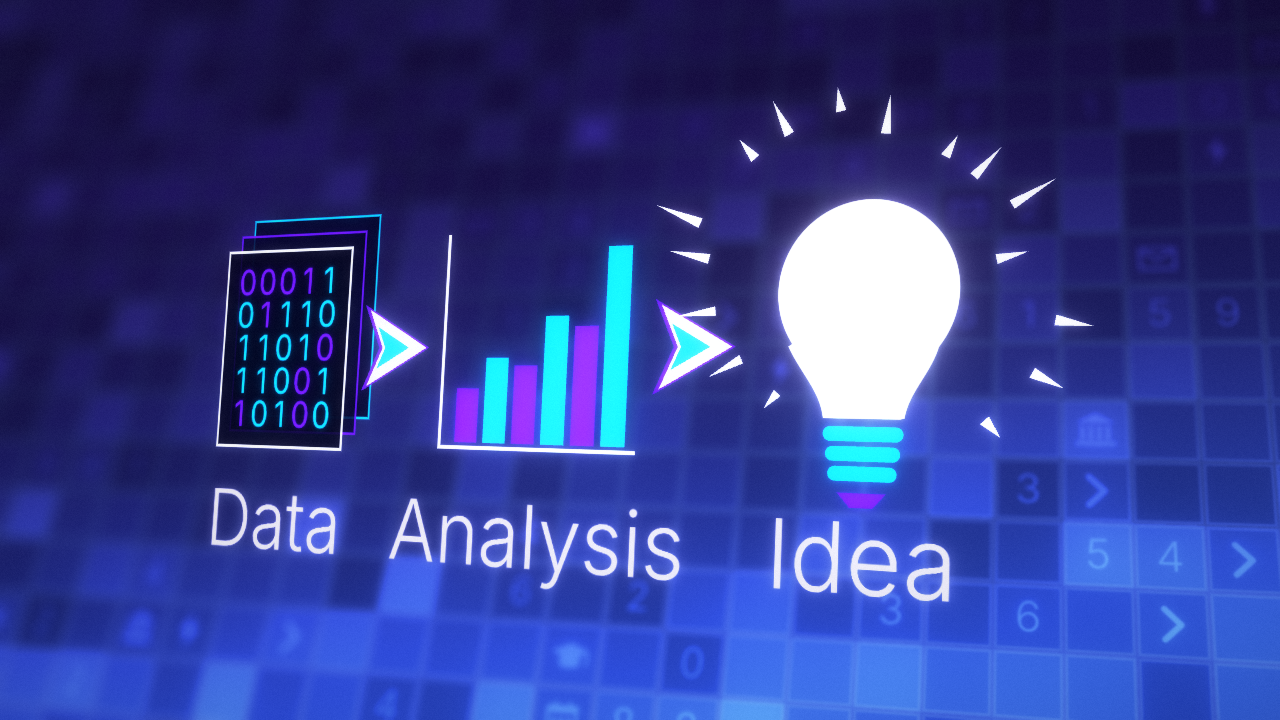
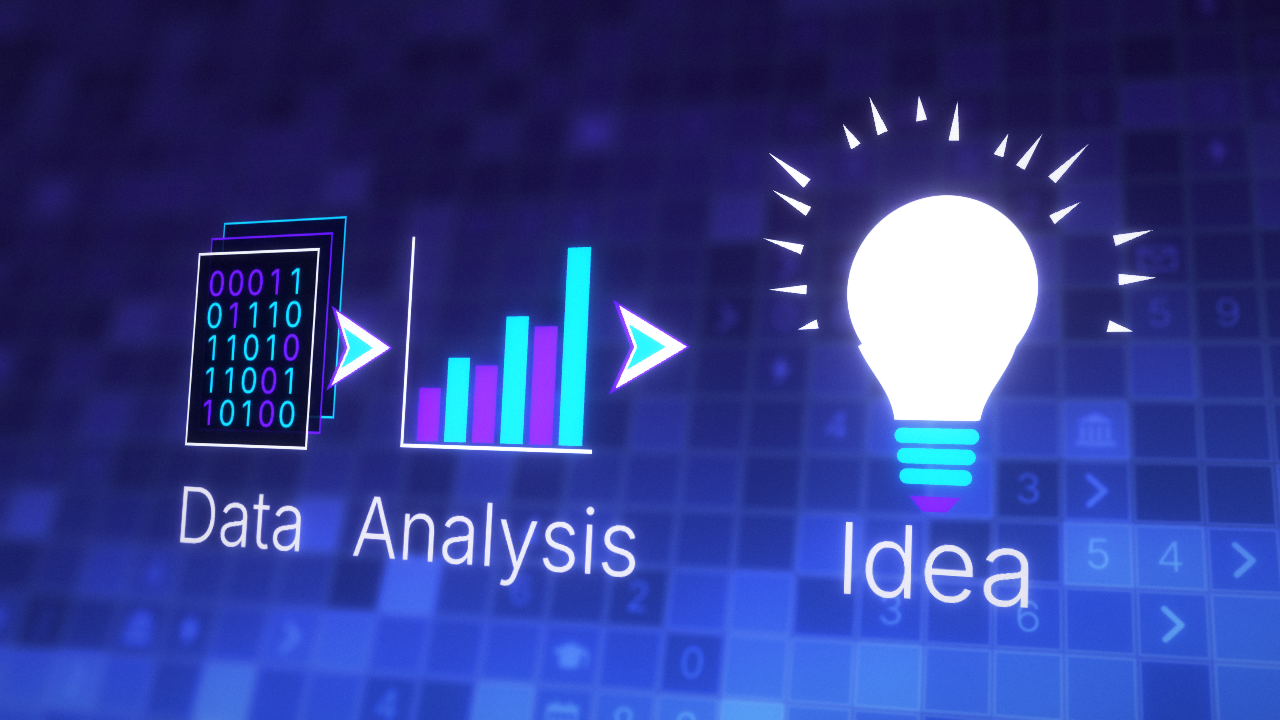
InfoStory 1A: keep the second arrow clear of the bulb and its rays
Bulb moved right (x 2.05 -> 2.9) and its 16 rays limited to the upper
~205 degrees, so neither the rays nor the bulb glow reach the arrow, also
at the burst overshoot. Group re-centred for the final hold.

Claude-Session: https://claude.ai/code/session_01A8MoXAZPzio9oadaHeZFrm

diff --git a/infostories-blackholes/src/info/stories/dataAnalysisIdea.ts b/infostories-blackholes/src/info/stories/dataAnalysisIdea.ts
@@ -16,15 +16,15 @@ const DIGITS = Array.from({ length: 25 }, (_, i) => ({
   delay: i * 0.7 + rng() * 6,
 }));
 
-// 16 uneven wedge rays, upper ~260 degrees, slightly asymmetric
+// 16 uneven wedge rays over the upper ~205 degrees (kept clear of the arrow), slightly asymmetric
 const RAYS = Array.from({ length: 16 }, (_, i) => ({
-  deg: -45 + i * (270 / 15) + (rng() - 0.5) * 9,
+  deg: -12 + i * (204 / 15) + (rng() - 0.5) * 7,
   len: 0.12 + rng() * 0.3,
-  rad: 0.95 + rng() * 0.42,
+  rad: 0.9 + rng() * 0.32,
 }));
 
 const LABEL_Y = -1.45;
-const X_DATA = -2.95, X_A1 = -1.82, X_CHART = -0.55, X_A2 = 0.78, X_BULB = 2.05;
+const X_DATA = -2.95, X_A1 = -1.82, X_CHART = -0.55, X_A2 = 0.78, X_BULB = 2.9;
 
 const order = <T extends Object3D>(o: T, r: number): T => {
   o.renderOrder = r;
@@ -192,7 +192,7 @@ export const dataAnalysisIdea: StoryBuilder = ({ anisotropy }) => {
     // group slides: Data centred -> Data+chart -> all three
     const s1 = easeInOutCubic(ramp(f, 72, 98));
     const s2 = easeInOutCubic(ramp(f, 162, 190));
-    content.position.x = lerp(lerp(2.95, 1.15, s1), -0.25, s2);
+    content.position.x = lerp(lerp(2.95, 1.15, s1), -0.6, s2);
 
     // digits float loosely then snap to the 5x5 grid
     for (const { m, d, grid } of digits) {
